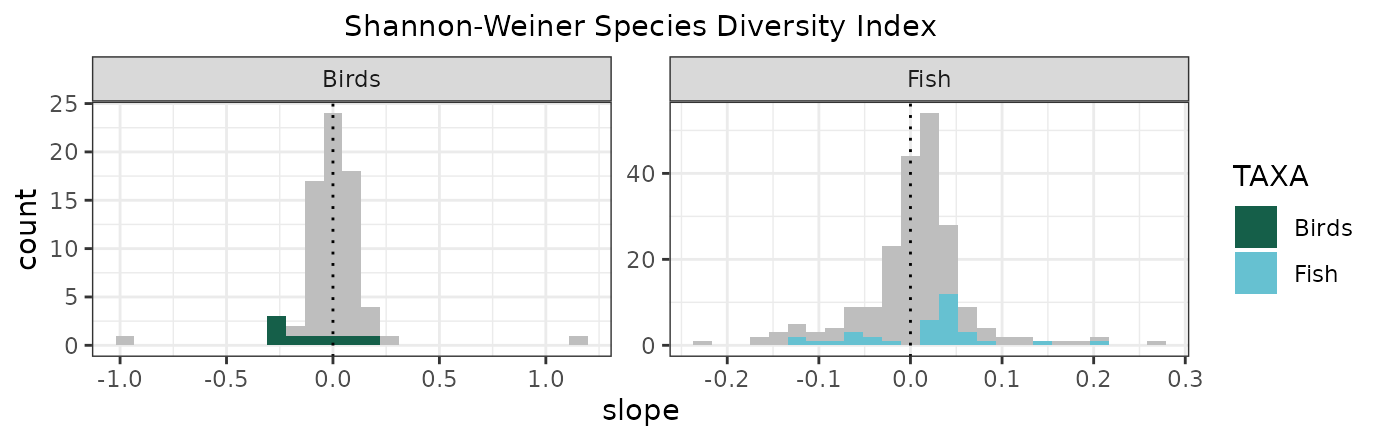
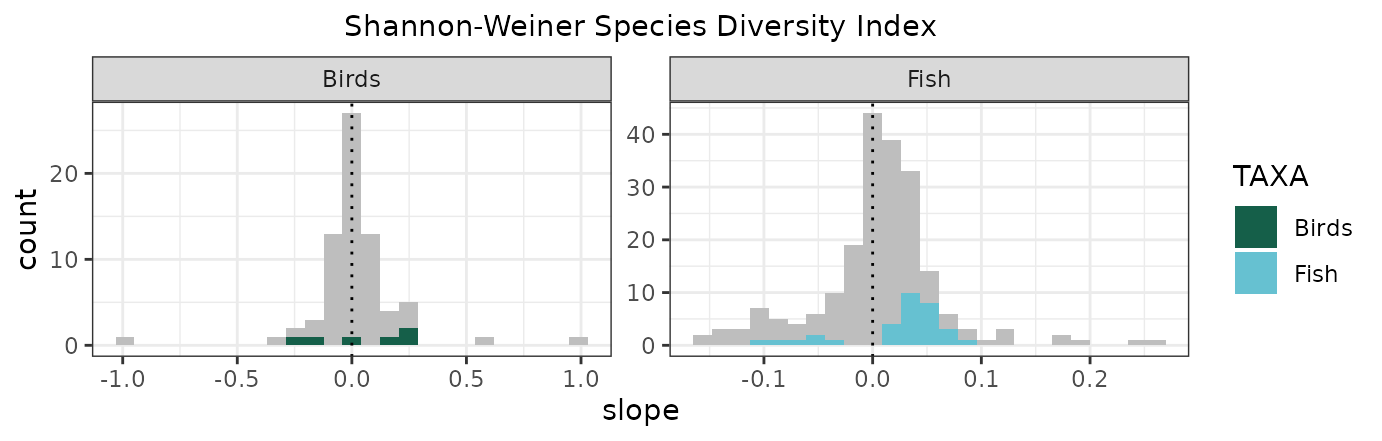
Deploying to gh-pages from @ bioTIMEHub/BioTIMEr@9d037a5c9a1ca02ecd7970065765613cbd2d752a 🚀

diff --git a/articles/vignette1.html b/articles/vignette1.html
@@ -586,15 +586,15 @@ subsequent sensitivity analysis:</p>
 <td align="right">10</td>
 <td align="left">10_359170</td>
 <td align="right">1</td>
-<td align="right">58</td>
-<td align="right">24</td>
+<td align="right">55</td>
+<td align="right">23</td>
 <td align="right">3</td>
 </tr>
 <tr class="even">
 <td align="right">10</td>
 <td align="left">10_359170</td>
 <td align="right">2</td>
-<td align="right">57</td>
+<td align="right">60</td>
 <td align="right">24</td>
 <td align="right">3</td>
 </tr>
@@ -602,32 +602,32 @@ subsequent sensitivity analysis:</p>
 <td align="right">10</td>
 <td align="left">10_359170</td>
 <td align="right">3</td>
-<td align="right">56</td>
-<td align="right">23</td>
+<td align="right">57</td>
+<td align="right">24</td>
 <td align="right">3</td>
 </tr>
 <tr class="even">
 <td align="right">18</td>
 <td align="left">18_335699</td>
 <td align="right">1</td>
-<td align="right">714</td>
-<td align="right">76</td>
+<td align="right">682</td>
+<td align="right">68</td>
 <td align="right">29</td>
 </tr>
 <tr class="odd">
 <td align="right">18</td>
 <td align="left">18_335699</td>
 <td align="right">2</td>
-<td align="right">715</td>
-<td align="right">70</td>
+<td align="right">700</td>
+<td align="right">69</td>
 <td align="right">29</td>
 </tr>
 <tr class="even">
 <td align="right">18</td>
 <td align="left">18_335699</td>
 <td align="right">3</td>
-<td align="right">746</td>
-<td align="right">79</td>
+<td align="right">706</td>
+<td align="right">73</td>
 <td align="right">29</td>
 </tr>
 <tr class="odd">
@@ -727,79 +727,79 @@ Lets apply it to our now processed BioTIME example dataset:</p>
 <td align="left">10_359170</td>
 <td align="right">1984</td>
 <td align="right">21</td>
-<td align="right">2333</td>
-<td align="right">1303</td>
-<td align="right">1.548911</td>
-<td align="right">0.6475973</td>
-<td align="right">2.837662</td>
-<td align="right">0.6478750</td>
-<td align="right">0.6960994</td>
-<td align="right">4.706342</td>
+<td align="right">3098</td>
+<td align="right">1818</td>
+<td align="right">1.470368</td>
+<td align="right">0.6189582</td>
+<td align="right">2.624384</td>
+<td align="right">0.6191581</td>
+<td align="right">0.7230471</td>
+<td align="right">4.350836</td>
 </tr>
 <tr class="even">
 <td align="left">10_359170</td>
 <td align="right">1992</td>
-<td align="right">17</td>
-<td align="right">1451</td>
-<td align="right">659</td>
-<td align="right">1.707545</td>
-<td align="right">0.7295503</td>
-<td align="right">3.697546</td>
-<td align="right">0.7300535</td>
-<td align="right">0.6271537</td>
-<td align="right">5.515404</td>
+<td align="right">19</td>
+<td align="right">1375</td>
+<td align="right">658</td>
+<td align="right">1.703900</td>
+<td align="right">0.7125718</td>
+<td align="right">3.479129</td>
+<td align="right">0.7130904</td>
+<td align="right">0.6756364</td>
+<td align="right">5.495339</td>
 </tr>
 <tr class="odd">
 <td align="left">10_359170</td>
 <td align="right">1996</td>
-<td align="right">19</td>
-<td align="right">1626</td>
-<td align="right">827</td>
-<td align="right">1.661839</td>
-<td align="right">0.6911383</td>
-<td align="right">3.237695</td>
-<td align="right">0.6915636</td>
-<td align="right">0.6912669</td>
-<td align="right">5.268990</td>
-</tr>
-<tr class="even">
-<td align="left">18_335699</td>
-<td align="right">1945</td>
-<td align="right">35</td>
-<td align="right">1407</td>
-<td align="right">324</td>
-<td align="right">2.432947</td>
-<td align="right">0.8674305</td>
-<td align="right">7.543215</td>
-<td align="right">0.8680475</td>
-<td align="right">0.4164890</td>
-<td align="right">11.392411</td>
-</tr>
-<tr class="odd">
-<td align="left">18_335699</td>
-<td align="right">1932</td>
-<td align="right">28</td>
-<td align="right">397</td>
-<td align="right">110</td>
-<td align="right">2.424405</td>
-<td align="right">0.8568546</td>
-<td align="right">6.985905</td>
-<td align="right">0.8590184</td>
-<td align="right">0.4760705</td>
-<td align="right">11.295505</td>
+<td align="right">17</td>
+<td align="right">1359</td>
+<td align="right">746</td>
+<td align="right">1.578888</td>
+<td align="right">0.6587485</td>
+<td align="right">2.930390</td>
+<td align="right">0.6592335</td>
+<td align="right">0.6968359</td>
+<td align="right">4.849561</td>
 </tr>
 <tr class="even">
 <td align="left">18_335699</td>
 <td align="right">1933</td>
-<td align="right">23</td>
-<td align="right">335</td>
-<td align="right">121</td>
-<td align="right">2.095793</td>
-<td align="right">0.8003742</td>
-<td align="right">5.009374</td>
-<td align="right">0.8027706</td>
-<td align="right">0.5761194</td>
-<td align="right">8.131891</td>
+<td align="right">30</td>
+<td align="right">568</td>
+<td align="right">145</td>
+<td align="right">2.498699</td>
+<td align="right">0.8720554</td>
+<td align="right">7.815883</td>
+<td align="right">0.8735934</td>
+<td align="right">0.4366197</td>
+<td align="right">12.166658</td>
+</tr>
+<tr class="odd">
+<td align="left">18_335699</td>
+<td align="right">1954</td>
+<td align="right">28</td>
+<td align="right">474</td>
+<td align="right">108</td>
+<td align="right">2.506180</td>
+<td align="right">0.8872243</td>
+<td align="right">8.867156</td>
+<td align="right">0.8891000</td>
+<td align="right">0.3523207</td>
+<td align="right">12.258016</td>
+</tr>
+<tr class="even">
+<td align="left">18_335699</td>
+<td align="right">1935</td>
+<td align="right">22</td>
+<td align="right">468</td>
+<td align="right">130</td>
+<td align="right">2.363576</td>
+<td align="right">0.8659142</td>
+<td align="right">7.457913</td>
+<td align="right">0.8677684</td>
+<td align="right">0.3974359</td>
+<td align="right">10.628889</td>
 </tr>
 </tbody>
 </table>
@@ -822,44 +822,44 @@ Lets apply it to our now processed BioTIME example dataset:</p>
 <tr class="odd">
 <td align="right">1984</td>
 <td align="left">10_359170</td>
-<td align="right">0.2727273</td>
-<td align="right">0.0227110</td>
-<td align="right">0.2468288</td>
+<td align="right">0.1818182</td>
+<td align="right">0.0252048</td>
+<td align="right">0.4035323</td>
 </tr>
 <tr class="even">
 <td align="right">1992</td>
 <td align="left">10_359170</td>
-<td align="right">0.3333333</td>
-<td align="right">0.0130489</td>
-<td align="right">0.2361708</td>
+<td align="right">0.3478261</td>
+<td align="right">0.0067361</td>
+<td align="right">0.4117119</td>
 </tr>
 <tr class="odd">
 <td align="right">1996</td>
 <td align="left">10_359170</td>
 <td align="right">0.2857143</td>
-<td align="right">0.0190962</td>
-<td align="right">0.1667208</td>
-</tr>
-<tr class="even">
-<td align="right">1945</td>
-<td align="left">18_335699</td>
-<td align="right">0.5348837</td>
-<td align="right">0.5606087</td>
-<td align="right">0.7705100</td>
-</tr>
-<tr class="odd">
-<td align="right">1932</td>
-<td align="left">18_335699</td>
-<td align="right">0.5853659</td>
-<td align="right">0.6026148</td>
-<td align="right">0.7014925</td>
+<td align="right">0.0154284</td>
+<td align="right">0.1243599</td>
 </tr>
 <tr class="even">
 <td align="right">1933</td>
 <td align="left">18_335699</td>
-<td align="right">0.4750000</td>
-<td align="right">0.4077942</td>
-<td align="right">0.5873663</td>
+<td align="right">0.5500000</td>
+<td align="right">0.4639993</td>
+<td align="right">0.5335893</td>
+</tr>
+<tr class="odd">
+<td align="right">1954</td>
+<td align="left">18_335699</td>
+<td align="right">0.5945946</td>
+<td align="right">0.4085333</td>
+<td align="right">0.4864865</td>
+</tr>
+<tr class="even">
+<td align="right">1935</td>
+<td align="left">18_335699</td>
+<td align="right">0.4615385</td>
+<td align="right">0.5269174</td>
+<td align="right">0.5875614</td>
 </tr>
 </tbody>
 </table>
@@ -943,48 +943,48 @@ use depends on your research question.</p>
 <tbody>
 <tr class="odd">
 <td align="left">DomMc</td>
-<td align="right">29</td>
-<td align="right">-0.0028469</td>
+<td align="right">26</td>
+<td align="right">-0.0076117</td>
 </tr>
 <tr class="even">
 <td align="left">N</td>
-<td align="right">34</td>
-<td align="right">-311.4256586</td>
+<td align="right">28</td>
+<td align="right">-251.2757963</td>
 </tr>
 <tr class="odd">
 <td align="left">PIE</td>
-<td align="right">36</td>
-<td align="right">0.0101826</td>
+<td align="right">34</td>
+<td align="right">0.0135878</td>
 </tr>
 <tr class="even">
 <td align="left">S</td>
-<td align="right">25</td>
-<td align="right">-0.2951585</td>
+<td align="right">26</td>
+<td align="right">-0.4073677</td>
 </tr>
 <tr class="odd">
 <td align="left">Shannon</td>
-<td align="right">43</td>
-<td align="right">0.0097193</td>
+<td align="right">38</td>
+<td align="right">0.0229976</td>
 </tr>
 <tr class="even">
 <td align="left">Simpson</td>
-<td align="right">38</td>
-<td align="right">0.0111617</td>
+<td align="right">35</td>
+<td align="right">0.0138214</td>
 </tr>
 <tr class="odd">
 <td align="left">expShannon</td>
-<td align="right">40</td>
-<td align="right">-0.0611393</td>
+<td align="right">37</td>
+<td align="right">0.0163954</td>
 </tr>
 <tr class="even">
 <td align="left">invSimpson</td>
-<td align="right">33</td>
-<td align="right">0.0363659</td>
+<td align="right">28</td>
+<td align="right">0.0698000</td>
 </tr>
 <tr class="odd">
 <td align="left">maxN</td>
 <td align="right">32</td>
-<td align="right">-219.3602300</td>
+<td align="right">-103.8597002</td>
 </tr>
 </tbody>
 </table>

diff --git a/index.html b/index.html
@@ -117,7 +117,7 @@
 <p>A likely following step would be to rarefy communities to a common sampling effort.</p>
 <div class="sourceCode" id="cb4"><pre class="downlit sourceCode r">
 <code class="sourceCode R"><span><span class="fu"><a href="reference/gridding.html">gridding</a></span><span class="op">(</span><span class="va">subBTmeta</span>, <span class="va">subBTquery</span><span class="op">)</span> <span class="op">%&gt;%</span> </span>
-<span>   <span class="fu"><a href="reference/resampling.html">resampling</a></span><span class="op">(</span><span class="st">"A"</span><span class="op">)</span></span></code></pre></div>
+<span>   <span class="fu"><a href="reference/resampling.html">resampling</a></span><span class="op">(</span><span class="st">"ABUNDANCE"</span><span class="op">)</span></span></code></pre></div>
 </div>
 <div class="section level2">
 <h2 id="citation">Citation<a class="anchor" aria-label="anchor" href="#citation"></a>
